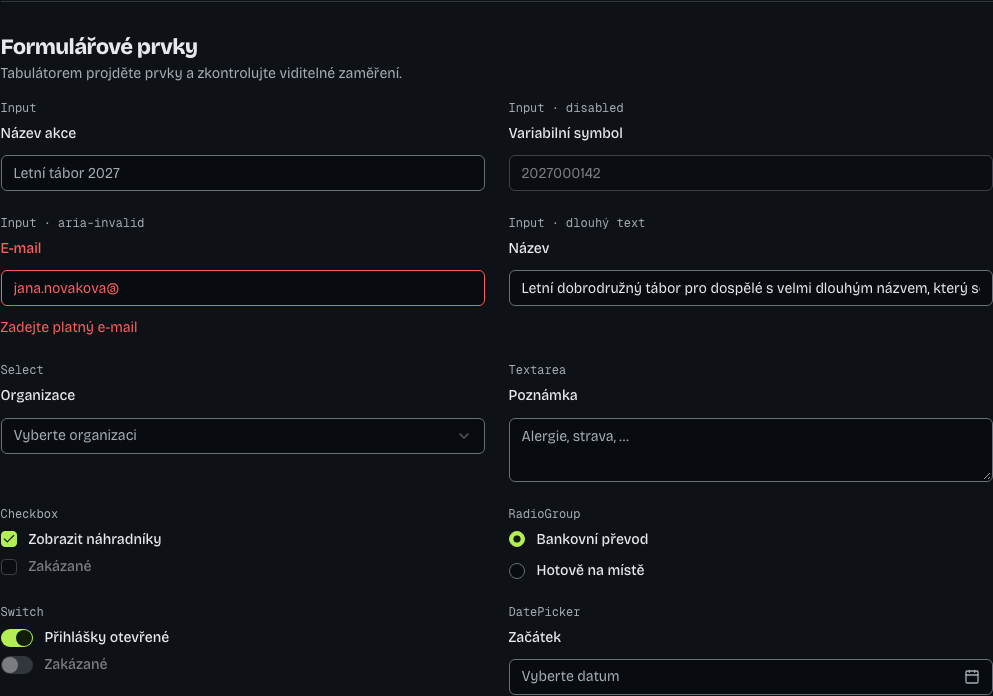
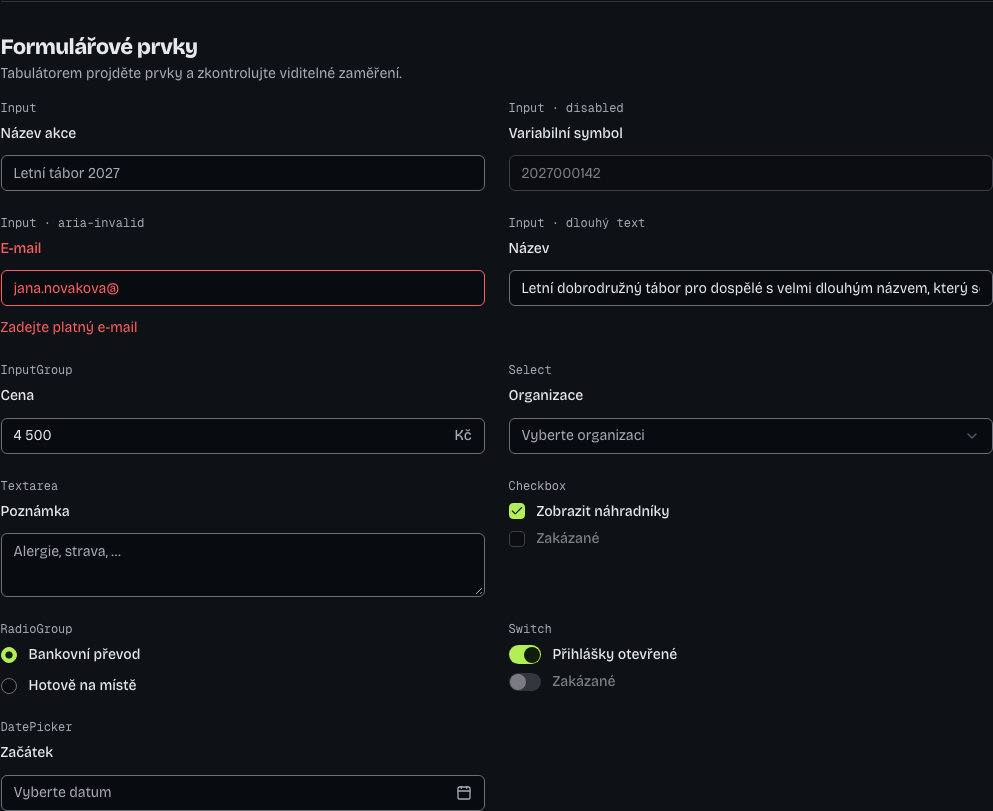
feat(forms): showcase shared input group patterns

diff --git a/apps/frontend/src/features/design-system/components/ControlsSection.tsx b/apps/frontend/src/features/design-system/components/ControlsSection.tsx
@@ -20,6 +20,12 @@ import {
   FormMessage,
 } from "@/components/ui/form"
 import { Input } from "@/components/ui/input"
+import {
+  InputGroup,
+  InputGroupAddon,
+  InputGroupInput,
+  InputGroupText,
+} from "@/components/ui/input-group"
 import { RadioGroup, RadioGroupItem } from "@/components/ui/radio-group"
 import {
   Select,
@@ -129,17 +135,15 @@ function ValidationForm() {
           name="consent"
           render={({ field }) => (
             <FormItem>
-              <div className="flex items-start gap-2">
+              <Field orientation="horizontal">
                 <FormControl>
                   <Checkbox
                     checked={field.value}
                     onCheckedChange={(checked) => field.onChange(checked === true)}
                   />
                 </FormControl>
-                <FormLabel className="leading-snug font-normal">
-                  Souhlasím se zpracováním osobních údajů
-                </FormLabel>
-              </div>
+                <FormLabel>Souhlasím se zpracováním osobních údajů</FormLabel>
+              </Field>
               <FormMessage />
             </FormItem>
           )}
@@ -245,6 +249,21 @@ export function ControlsSection() {
                 id="ds-input-long"
                 defaultValue={LONG_TEXT}
               />
+            </Field>
+          </ShowcaseItem>
+          <ShowcaseItem label="InputGroup">
+            <Field>
+              <FieldLabel htmlFor="ds-input-group">Cena</FieldLabel>
+              <InputGroup>
+                <InputGroupInput
+                  id="ds-input-group"
+                  inputMode="numeric"
+                  defaultValue="4 500"
+                />
+                <InputGroupAddon align="inline-end">
+                  <InputGroupText>Kč</InputGroupText>
+                </InputGroupAddon>
+              </InputGroup>
             </Field>
           </ShowcaseItem>
           <ShowcaseItem label="Select">
